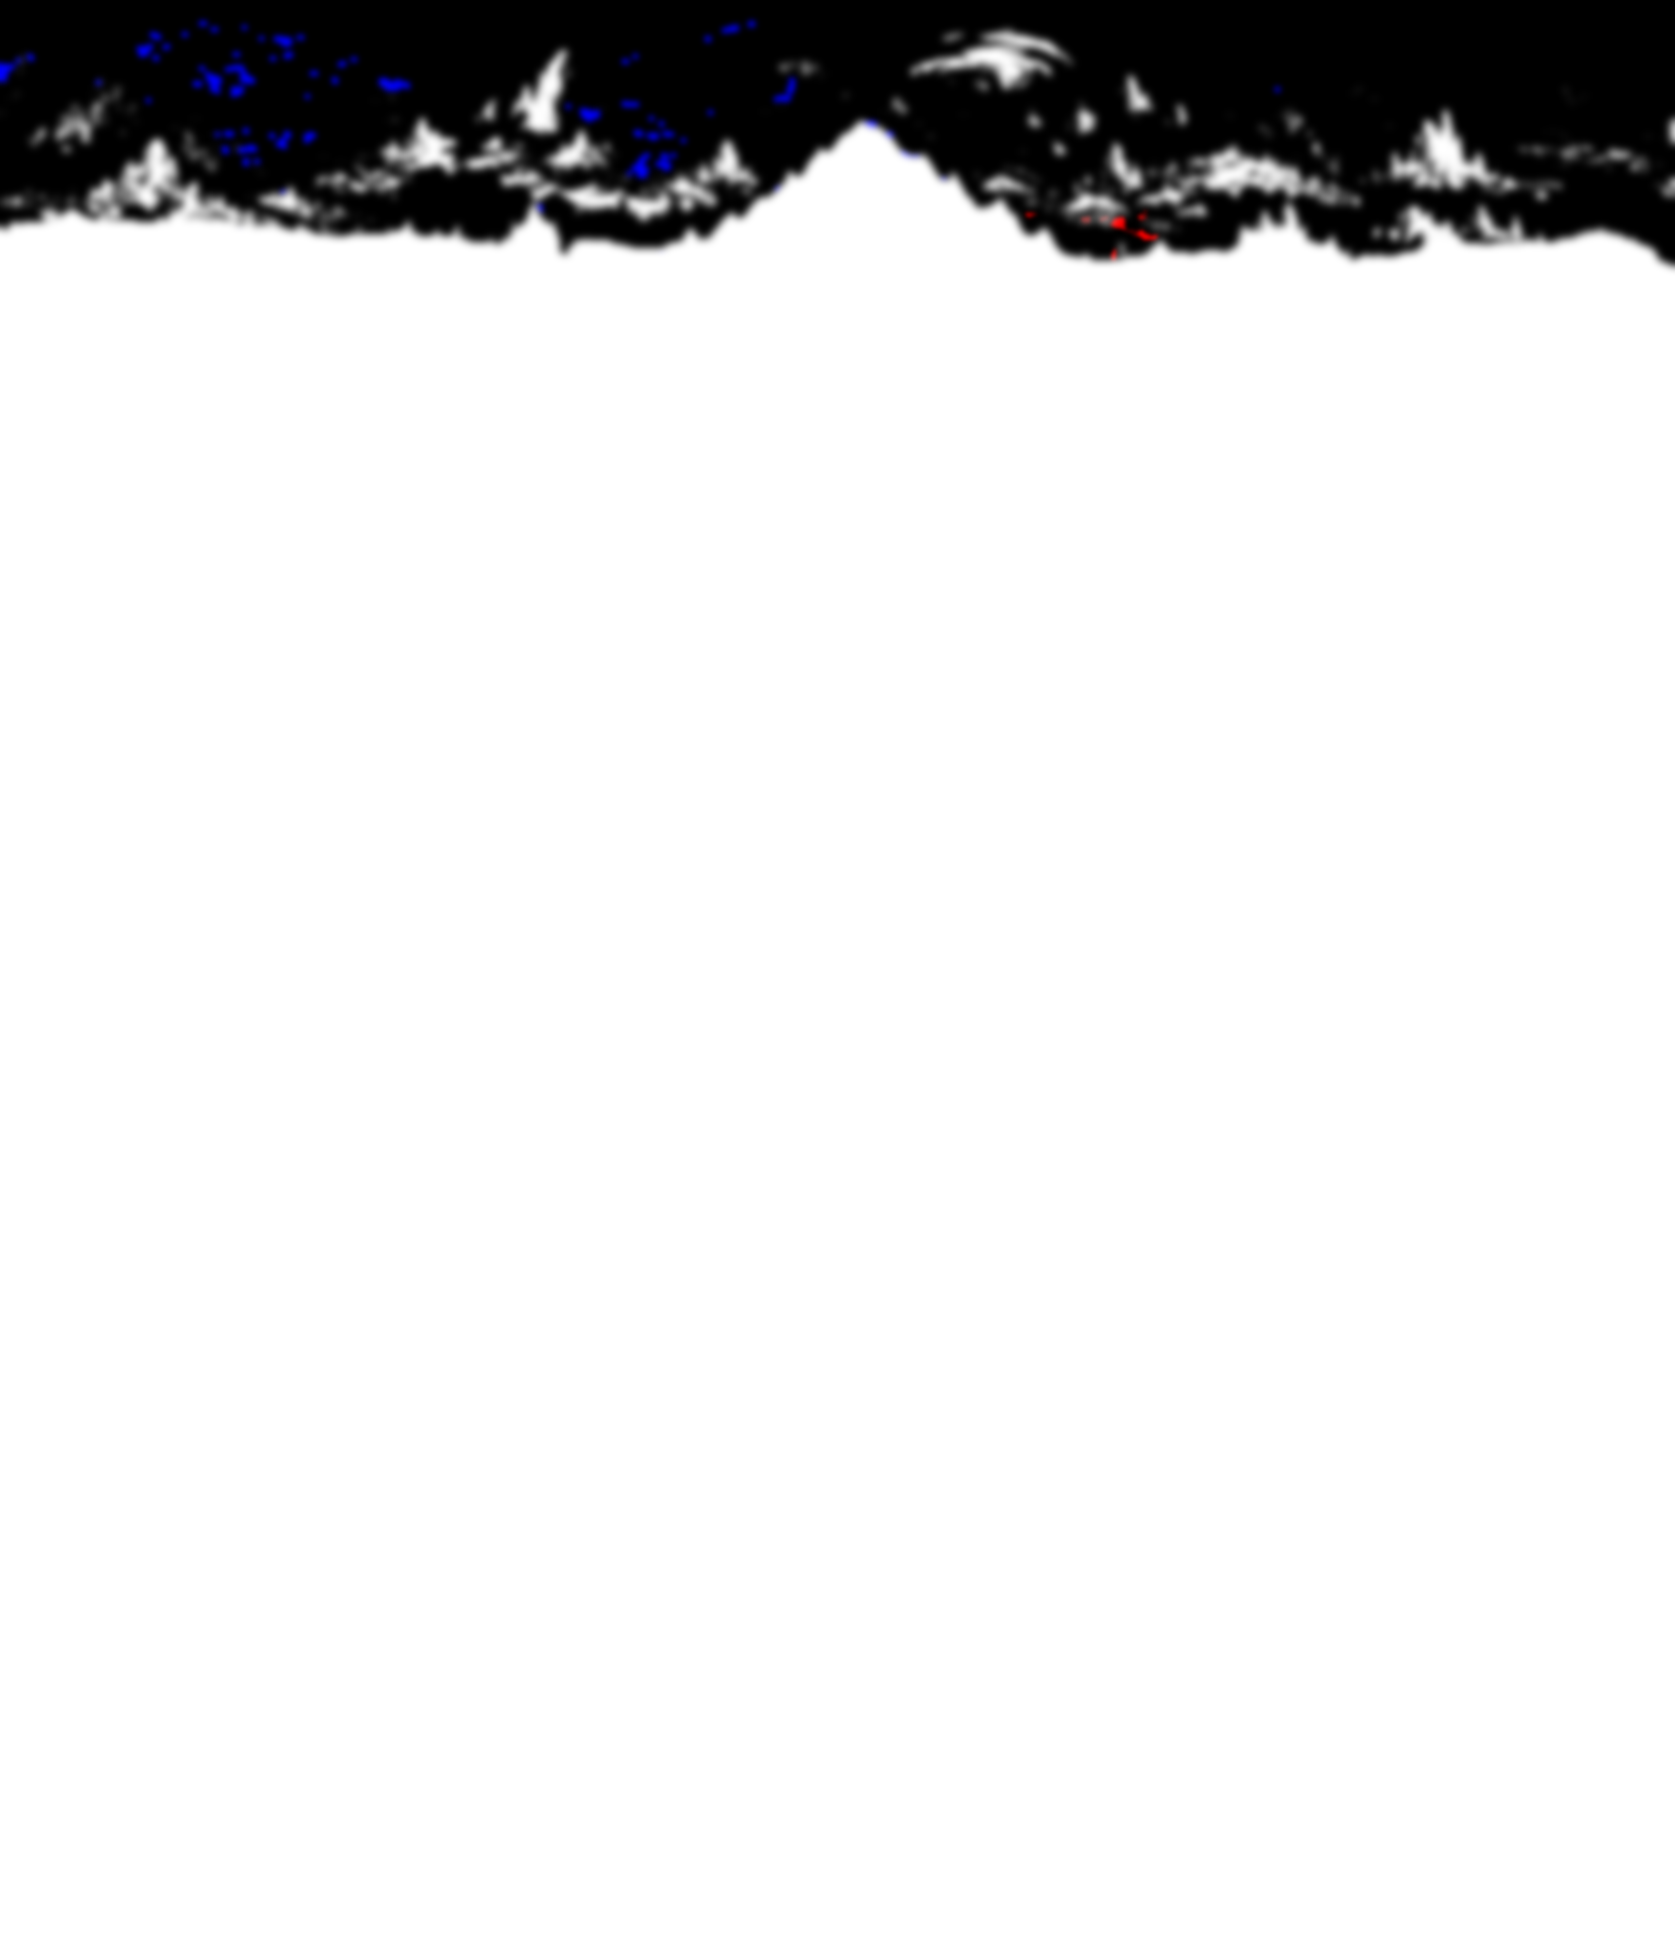
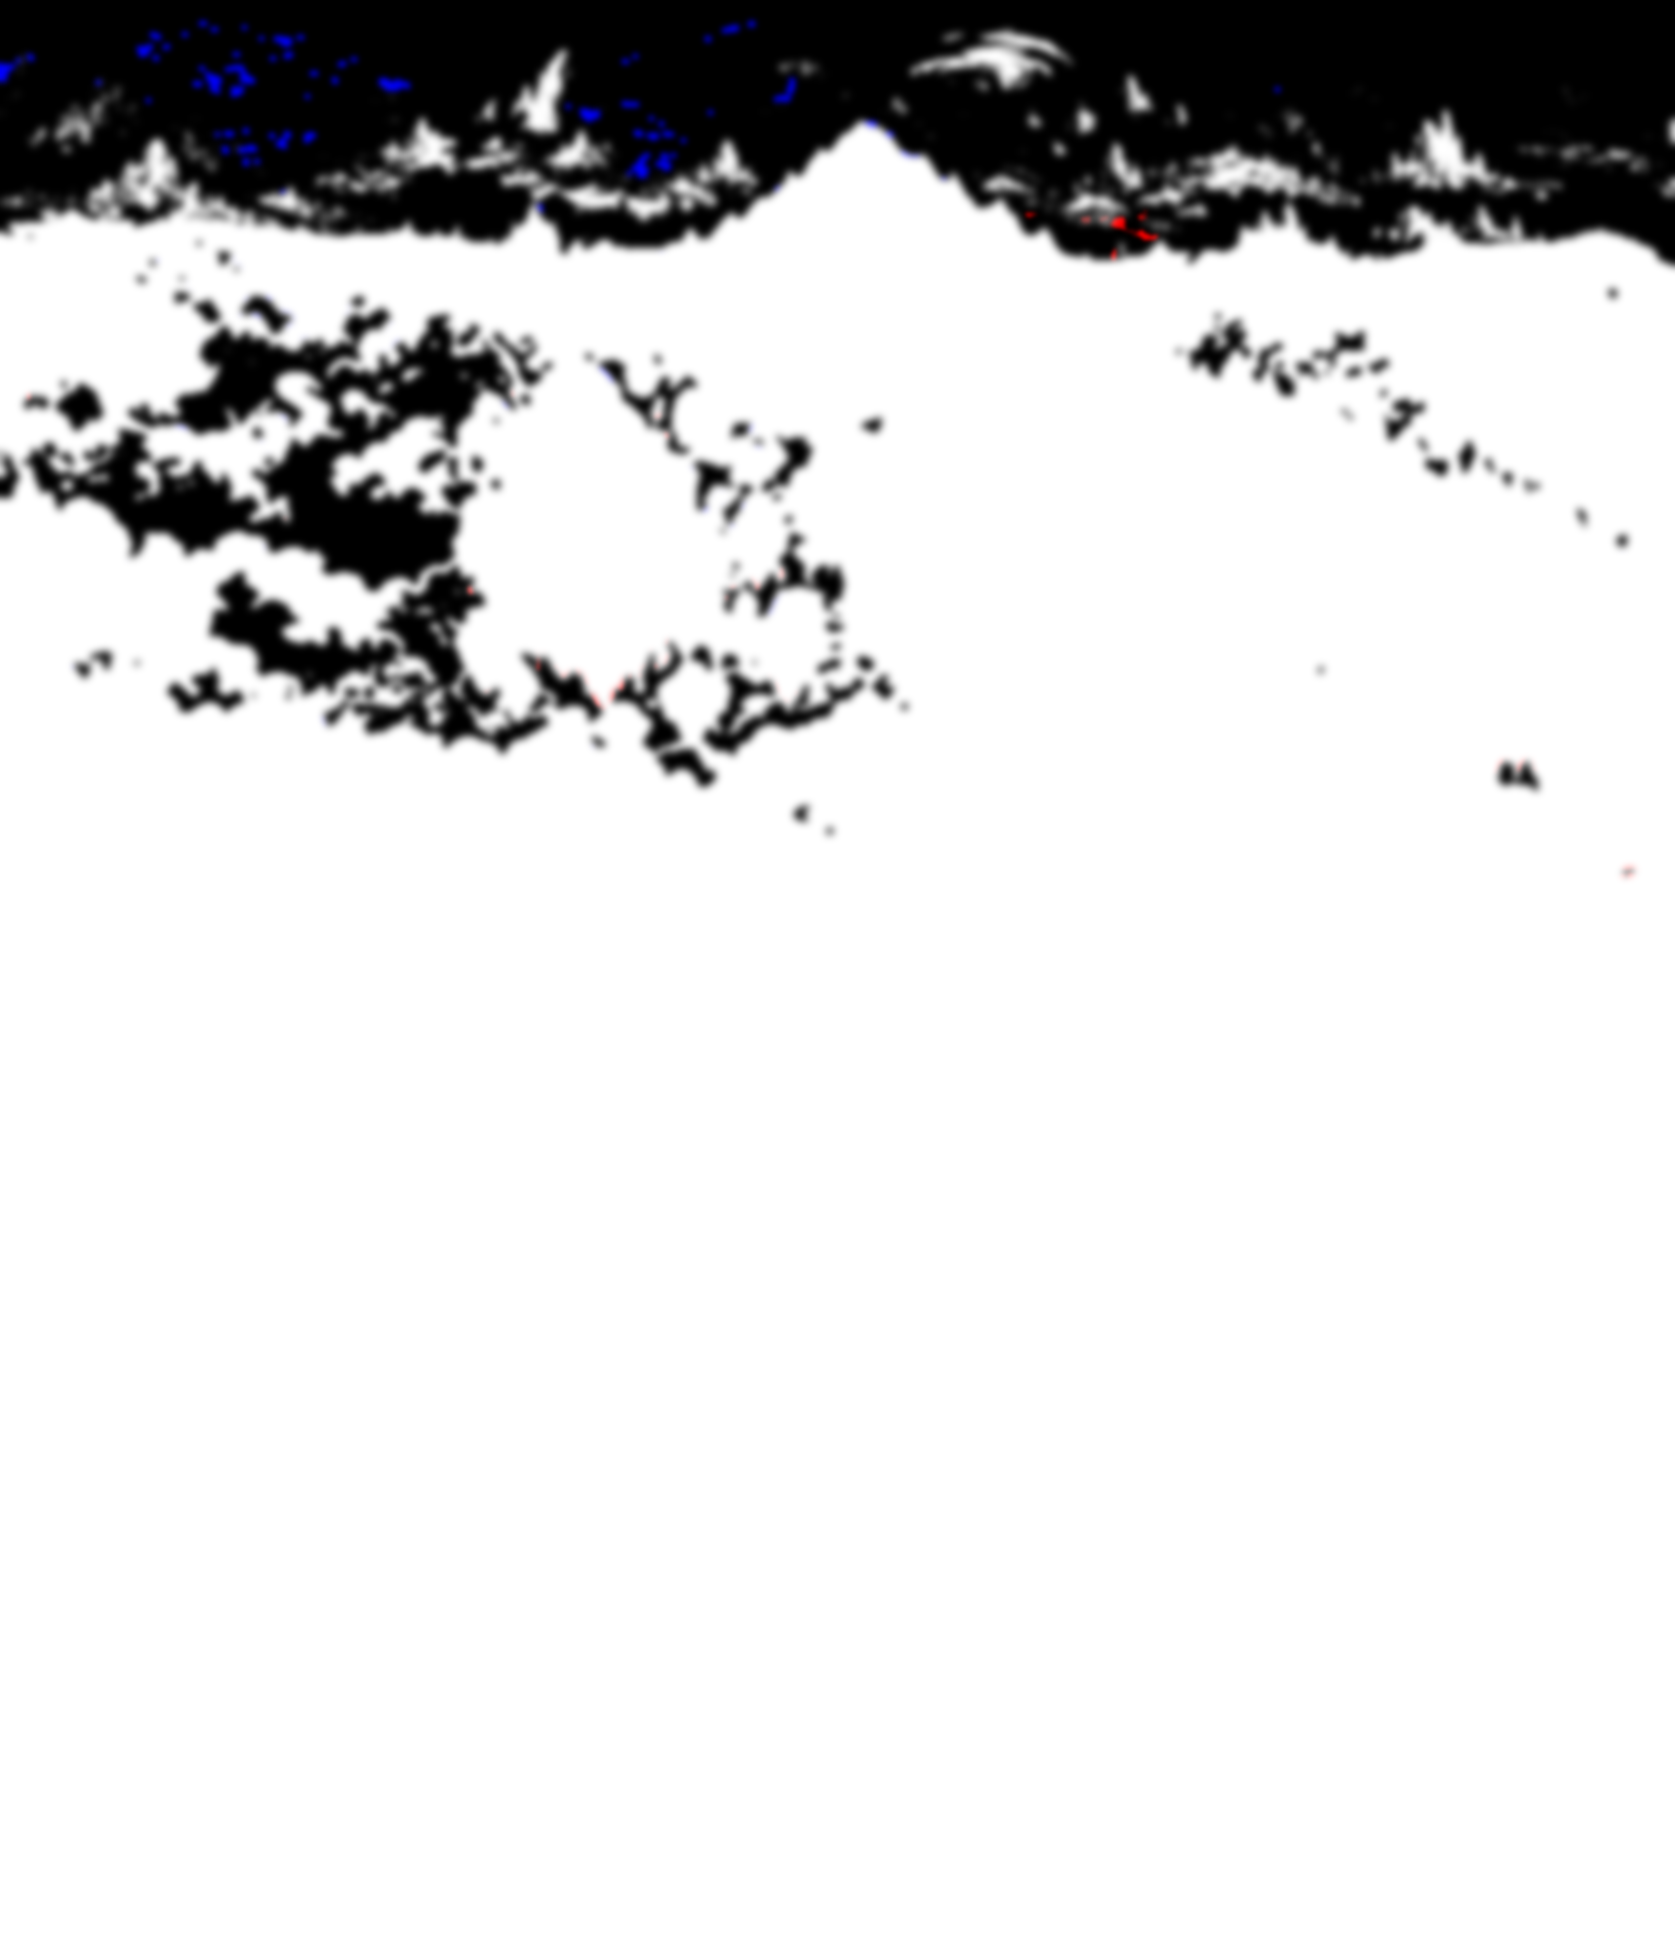
The world map breathes: islands floating around the Library cut out (auto-found inside the sea of clouds) and bobbing, its sea of clouds drifting endlessly

diff --git a/prototypes/p2-spikes/SpikeLab/Shell/MapScene.swift b/prototypes/p2-spikes/SpikeLab/Shell/MapScene.swift
@@ -33,6 +33,7 @@ final class MapScene {
     private var borderClouds: [(e: Entity, phase: Float, base: SIMD3<Float>)] = []
     private var pathLights: [(e: Entity, phase: Float)] = []
     private var shadows: [(e: Entity, speed: Float, span: Float)] = []
+    private var floaters: [(e: Entity, base: SIMD3<Float>, phase: Float, book: Bool)] = []
     private var nearClouds: [(e: Entity, base: SIMD3<Float>, phase: Float, depth: Float)] = []
     private var circlers: [(e: Entity, center: SIMD3<Float>, radius: Float, speed: Float, phase: Float)] = []
     /// The living parallax: the camera orbits a little around what you look at (leaning as you drag, following the
@@ -148,6 +149,7 @@ final class MapScene {
             m.custom.texture = .init(motion)
             m.custom.value = [1, 0.5, 0.5, 0]                        // full vitality, no Flame light on the map
             m.specular = .init(floatLiteral: -5)                     // no sun rays (the sun is beyond the map's top)
+            m.clearcoatRoughness = .init(floatLiteral: 1)            // its sea of clouds drifts (stoneLive)
             m.clearcoat = .init(floatLiteral: 0.4615 / (Self.mapPixels.x / Self.mapPixels.y))
             material = m
         }
@@ -230,6 +232,24 @@ final class MapScene {
                     e.position = start + off
                     root.addChild(e); birds.append((e, Float(b) * 1.3 + Float(f), start + off, vel, span))
                 }
+            }
+        }
+
+        // The islands and books floating around the Library, cut out of the map (tools/map_floaters.py): they bob,
+        // tilt and flap, each in its own rhythm, just in front of the painting.
+        if let url = Bundle.main.url(forResource: "map-floaters", withExtension: "json"), let data = try? Data(contentsOf: url),
+           let list = try? JSONSerialization.jsonObject(with: data) as? [[String: Any]] {
+            for (k, f) in list.enumerated() {
+                guard let file = f["file"] as? String, let tex = try? await TextureResource(named: "\(file).png"),
+                      let u = f["u"] as? Double, let v = f["v"] as? Double, let fw = f["w"] as? Double, let fh = f["h"] as? Double else { continue }
+                let pos = spot(Float(u), Float(v), lift: 0.012 + Float(k % 3) * 0.006)
+                let ratio = -pos.z / Self.distance
+                var mat = UnlitMaterial(); mat.color = .init(tint: .white, texture: .init(tex))
+                mat.blending = .transparent(opacity: .init(floatLiteral: 1)); mat.writesDepth = false
+                let e = ModelEntity(mesh: .generatePlane(width: Float(fw) * planeW * ratio, height: Float(fh) * planeH * ratio), materials: [mat])
+                e.position = pos
+                root.addChild(e)
+                floaters.append((e, pos, Float(k) * 1.61, (f["kind"] as? String) == "book"))
             }
         }
 
@@ -466,6 +486,12 @@ final class MapScene {
             birds[i].e.position = b + SIMD3(0, 0.004 * sin(time * 0.8 + ph), 0)
             let flap = 0.55 + 0.45 * abs(sin(time * 7 + ph)) * (0.5 + 0.5 * max(0, sin(time * 0.6 + ph)))
             birds[i].e.scale = [birds[i].vel.x < 0 ? -1 : 1, flap, 1]
+        }
+        for f in floaters {            // floating islands and books: bob, tilt, books flap
+            let t = time + f.phase
+            f.e.position = f.base + SIMD3(sin(t * 0.27) * 0.0016, sin(t * 0.6) * 0.0022 + sin(t * 0.19) * 0.001, 0)
+            f.e.orientation = simd_quatf(angle: sin(t * 0.45) * 0.05, axis: [0, 0, 1])
+            if f.book { let flap = pow(0.5 + 0.5 * sin(t * 2.3), 3); f.e.scale = [1 - flap * 0.35, 1, 1] }
         }
         for c in nearClouds {          // near clouds drift slowly and breathe
             c.e.position = c.base + SIMD3(sin(time * 0.07 + c.phase) * 0.02 * c.depth, sin(time * 0.05 + c.phase) * 0.008, 0)

diff --git a/prototypes/p2-spikes/tools/map_floaters.py b/prototypes/p2-spikes/tools/map_floaters.py
@@ -1,0 +1,68 @@
+#!/usr/bin/env python3
+"""The world map breathes too (decision 142): the small islands and books floating around the Library are cut out
+of the wide map (boxes given by eye, tools/life/map.json), the clouds behind them filled in, so MapScene can make
+them bob, tilt and flap. Writes SpikeLab/Assets/map-float-<k>.png, map-floaters.json and the filled
+world-map-wide.png (the original kept in tools/originals/). Then run tools/build_map.py --wide.
+Run from prototypes/p2-spikes."""
+import json, os, shutil
+import numpy as np
+from PIL import Image
+from scipy import ndimage as nd
+
+A = "SpikeLab/Assets"
+os.makedirs("tools/originals", exist_ok=True)
+orig = "tools/originals/world-map-wide.png"
+if not os.path.exists(orig): shutil.copy(f"{A}/world-map-wide.png", orig)
+P = np.asarray(Image.open(orig).convert("RGB")).astype(float); H, W, _ = P.shape
+# Found automatically: anything fully surrounded by the sea of clouds (pale, soft, unsaturated, upper half) that
+# isn't the big floating Library itself.
+from PIL import ImageFilter
+img = Image.fromarray(P.astype(np.uint8))
+hsv = np.asarray(img.convert("HSV")).astype(float) / 255
+Lm = P @ [0.299 / 255, 0.587 / 255, 0.114 / 255]
+Yg = np.mgrid[0:H, 0:W][0] / H
+softc = nd.uniform_filter(np.abs(nd.sobel(Lm, axis=1)) + np.abs(nd.sobel(Lm, axis=0)), 7) < 0.2
+cloud = (Yg < 0.45) & (hsv[..., 1] < 0.42) & (hsv[..., 2] > 0.55) & softc
+cloud = nd.binary_closing(nd.binary_opening(cloud, iterations=2), iterations=3)
+lab, n = nd.label(~cloud)
+sizes = nd.sum(~cloud, lab, range(1, n + 1))
+boxes = []
+def add(m, ys0, xs0):
+    yy, xx = np.where(m)
+    if len(yy) < 120: return
+    y0, y1, x0, x1 = yy.min(), yy.max() + 1, xx.min(), xx.max() + 1
+    sub = m[y0:y1, x0:x1]
+    cx, cy = (xs0 + (x0 + x1) / 2) / W, (ys0 + (y0 + y1) / 2) / H
+    kind = "book" if (0.4 < cx < 0.62 and 0.17 < cy < 0.33 and len(yy) < 2500) else "island"   # books fly by the Library
+    boxes.append(((xs0 + x0) / W, (ys0 + y0) / H, (x1 - x0) / W, (y1 - y0) / H, kind, sub))
+for i, o in enumerate(nd.find_objects(lab)):
+    ys, xs = o
+    if not (150 <= sizes[i] <= 9000): continue                       # specks out; the Library island out
+    if ys.start < int(H * 0.06) or xs.start == 0 or ys.stop >= int(H * 0.46): continue   # (not the far sky's top)
+    m = lab[o] == i + 1
+    parts, k = nd.label(nd.binary_erosion(m, iterations=3))           # islands touching through haze: apart
+    if k > 1:
+        grown = nd.grey_dilation(parts, size=(9, 9)) * m
+        for j in range(1, k + 1): add(grown == j, ys.start, xs.start)
+    else:
+        add(m, ys.start, xs.start)
+filled = P.copy(); known = np.ones((H, W)); out = []
+for k, (u, v, w, h, kind, m) in enumerate(boxes):
+    x, y, bw, bh = int(round(u * W)), int(round(v * H)), m.shape[1], m.shape[0]
+    full = np.zeros((H, W), bool); full[y:y + bh, x:x + bw] = m
+    full = nd.binary_dilation(full, iterations=1)
+    pad = 4; x0, y0, x1, y1 = max(0, x - pad), max(0, y - pad), min(W, x + bw + pad), min(H, y + bh + pad)
+    alpha = nd.gaussian_filter(full.astype(float), 1.0)[y0:y1, x0:x1]
+    Image.fromarray(np.dstack([P[y0:y1, x0:x1], np.clip(alpha * 1.3, 0, 1) * 255]).astype(np.uint8)).save(f"{A}/map-float-{k}.png")
+    known[nd.binary_dilation(full, iterations=3)] = 0
+    out.append({"file": f"map-float-{k}", "u": (x0 + x1) / 2 / W, "v": 1 - (y0 + y1) / 2 / H, "w": (x1 - x0) / W, "h": (y1 - y0) / H, "kind": kind})
+hole = known == 0
+acc = filled * known[..., None]; fill = np.zeros_like(filled)
+for sig in (20, 8, 3):
+    a = np.stack([nd.gaussian_filter(acc[..., c], sig) for c in range(3)], -1); wt = nd.gaussian_filter(known, sig)
+    fill = np.where((wt > 0.02)[..., None], a / np.maximum(wt, 1e-6)[..., None], fill)
+grain = nd.gaussian_filter(np.random.default_rng(3).normal(0, 3, (H, W)), 1)[..., None]
+filled = np.where(hole[..., None], fill + grain, P)
+Image.fromarray(np.clip(filled, 0, 255).astype(np.uint8)).save(f"{A}/world-map-wide.png")
+json.dump(out, open(f"{A}/map-floaters.json", "w"), indent=1)
+print("map floaters", len(out))

diff --git a/prototypes/p2-spikes/tools/build_map.py b/prototypes/p2-spikes/tools/build_map.py
@@ -42,6 +42,11 @@ for i, o in enumerate(nd.find_objects(fl)):       # lanterns and the forge's fir
     keepf[i + 1] = sizes[i] <= 60 and max(hh, ww) <= 2.0 * min(hh, ww) + 2
 fire = keepf[fl]
 sky = (Y < 0.16) & (d < 0.03) & (L > 0.35)
+# The sea of clouds around the floating Library drifts too (pale, soft, unsaturated, in the upper half).
+softc = nd.uniform_filter(np.abs(nd.sobel(L, axis=1)) + np.abs(nd.sobel(L, axis=0)), 7) < 0.12
+cloudsea = (Y < 0.45) & (s < 0.32) & (v > 0.62) & softc & ~water
+cloudsea = nd.binary_opening(cloudsea, iterations=2)
+sky |= cloudsea
 
 def soft(m, grow, blur):
     im = Image.fromarray((m * 255).astype(np.uint8))
